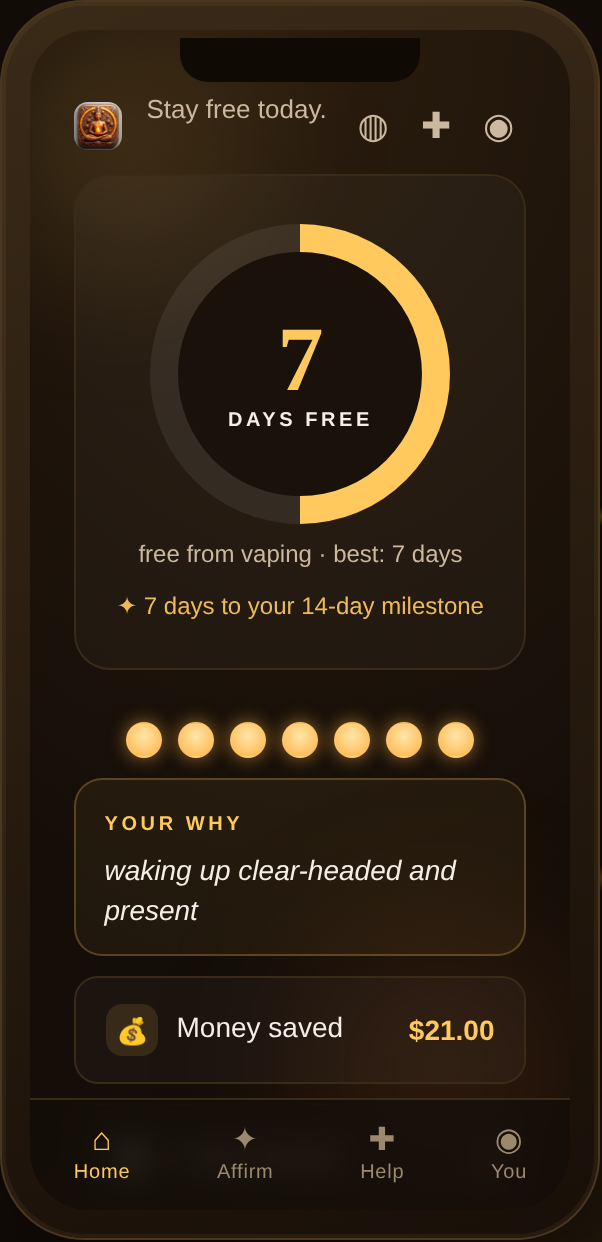
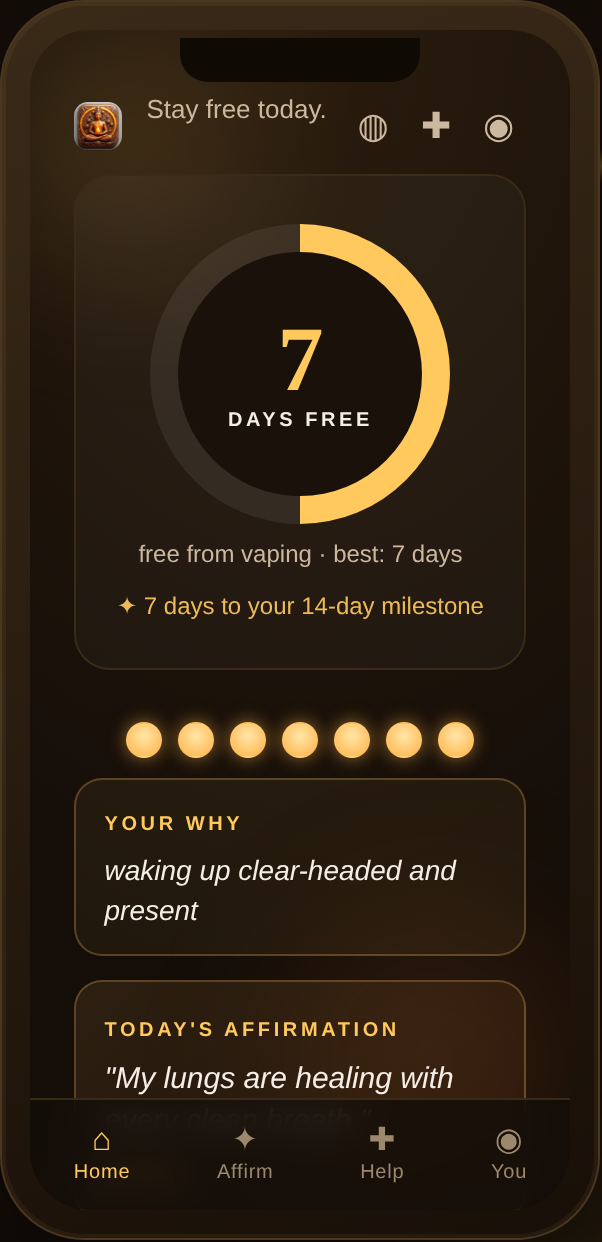
Round 8: favorites + affirmation-of-the-day + heart polish
- Favorites: heart-to-favorite in the player (with a pop animation) + a
  Favorites view reachable from the library; heart reflects per-line state.
- Affirmation of the day: a featured, tappable line on the dashboard.
- Scoped theme selectors to [data-theme] so the new Favorites card doesn't
  break the library count/flow.
QA: 30/30 checks pass.

diff --git a/microsite/assets/app.js b/microsite/assets/app.js
@@ -69,7 +69,7 @@
   const screen = document.getElementById("appScreen");
   if (!screen) return;
 
-  const state = { habit: "vaping", habitLabel: "vaping", cost: 7, days: 7, triggers: new Set(), premium: false, freedom: "" };
+  const state = { habit: "vaping", habitLabel: "vaping", cost: 7, days: 7, triggers: new Set(), premium: false, freedom: "", favorites: new Set(["I am free, one breath at a time.", "Every clean hour is rebuilding me."]) };
 
   const MILESTONES = [1, 3, 7, 14, 30, 60, 90, 180, 365];
 
@@ -178,6 +178,7 @@
       </div>
       <div class="streak">${dots}</div>
       <div class="why-card"><span class="why-label">YOUR WHY</span><p>${why}</p></div>
+      <div class="aotd-card" data-action="player"><span class="aotd-label">TODAY'S AFFIRMATION</span><p>"${affLines()[0]}"</p><span class="aotd-go">▶ Play</span></div>
       <div class="mini-card"><span><i class="chip">💰</i>Money saved</span><b data-money style="color:var(--gold)">$0.00</b></div>
       <div class="mini-card"><span><i class="chip">🛡</i>Urges beaten</span><b style="color:var(--amber)">4</b></div>
       <button class="pill" data-action="library">▶   Today's affirmation</button>
@@ -187,12 +188,23 @@
     library: () => `
       <div class="player-bar"><span style="flex:1;font-family:'Iowan Old Style',Georgia,serif;font-size:20px;color:var(--cream)">Affirmations</span><span class="ic" data-action="dashboard">✕</span></div>
       <p class="sub" style="margin-bottom:10px">Pick a set and let each line land over the soundscape.</p>
+      <div class="lib-card" data-action="favorites"><span class="lib-emoji">♥</span><span class="lib-title">Favorites</span><span style="color:var(--gold)">${state.favorites.size}</span></div>
       ${THEMES.map((t) => { const locked = t[3] && !state.premium; return `<div class="lib-card" data-theme="${t[0]}"><span class="lib-emoji">${t[2]}</span><span class="lib-title">${t[1]}</span><span style="color:var(--gold)">${locked ? "🔒" : "▶"}</span></div>`; }).join("")}`,
     player: () => `
-      <div class="player-bar"><span class="ic" data-mute>🔊</span><span class="ic" data-action="dashboard">✕</span></div>
+      <div class="player-bar"><span style="display:flex;gap:6px"><span class="ic" data-mute>🔊</span><span class="ic" data-fav>♡</span></span><span class="ic" data-action="dashboard">✕</span></div>
       <div class="aff-line" data-aff>${(activeLines || affLines())[0]}</div>
       <div class="aff-cap">Breathe slowly · let each line land</div>
       <div class="sound-row">${["Embers", "Rain", "Ocean", "Forest", "Silence"].map((s, i) => `<span class="sound-chip${i === 0 ? " on" : ""}" data-sound="${s}">${s}</span>`).join("")}</div>`,
+    favorites: () => {
+      const favs = [...state.favorites];
+      const body = favs.length
+        ? favs.map((l) => `<div class="fav-card"><span class="fav-heart">♥</span><span>${l}</span></div>`).join("")
+        : `<p class="sub">Tap the heart in any session to save the lines that land.</p>`;
+      return `
+      <div class="player-bar"><span style="flex:1;font-family:'Iowan Old Style',Georgia,serif;font-size:20px;color:var(--cream)">Favorites</span><span class="ic" data-action="library">✕</span></div>
+      <p class="sub" style="margin-bottom:10px">The affirmations that landed for you.</p>
+      ${body}`;
+    },
     milestone: () => `
       <div class="confetti-wrap" aria-hidden="true">${Array.from({ length: 14 }, (_, i) => `<span class="confetti c${i % 5}" style="left:${(i * 7 + 5) % 100}%;animation-delay:${(i % 7) * 0.18}s"></span>`).join("")}</div>
       <div style="margin:auto;text-align:center;position:relative;z-index:1">
@@ -344,11 +356,12 @@
     if (ambient) { try { ambient.a.stop(); ambient.b.stop(); } catch (e) {} ambient = null; }
   }
   function runPlayer(el) {
-    const lines = activeLines || affLines(), target = el.querySelector("[data-aff]"); let i = 0;
-    startAmbient(); speak(lines[0]);
+    const lines = activeLines || affLines(), target = el.querySelector("[data-aff]"), fav = el.querySelector("[data-fav]"); let i = 0;
+    const setHeart = () => { if (fav) fav.textContent = state.favorites.has(lines[i]) ? "♥" : "♡"; };
+    startAmbient(); speak(lines[0]); setHeart();
     cycleTimer = setInterval(() => {
       target.style.opacity = 0;
-      setTimeout(() => { i = (i + 1) % lines.length; target.textContent = lines[i]; target.style.opacity = 1; speak(lines[i]); }, 500);
+      setTimeout(() => { i = (i + 1) % lines.length; target.textContent = lines[i]; target.style.opacity = 1; speak(lines[i]); setHeart(); }, 500);
     }, 5500);
   }
   function runBreathe(el) {
@@ -432,6 +445,17 @@
     }
     const tog = e.target.closest("[data-toggle]");
     if (tog) { tog.classList.toggle("on"); tog.textContent = tog.classList.contains("on") ? "●" : "○"; return; }
+
+    const fav = e.target.closest("[data-fav]");
+    if (fav) {
+      const aff = screen.querySelector("[data-aff]");
+      const line = aff && aff.textContent;
+      if (line) {
+        if (state.favorites.has(line)) { state.favorites.delete(line); fav.textContent = "♡"; }
+        else { state.favorites.add(line); fav.textContent = "♥"; fav.classList.remove("pop"); void fav.offsetWidth; fav.classList.add("pop"); }
+      }
+      return;
+    }
 
     const act = e.target.closest("[data-action]");
     if (!act) return;

diff --git a/microsite/assets/styles.css b/microsite/assets/styles.css
@@ -283,6 +283,16 @@ section{padding:clamp(70px,10vw,130px) clamp(18px,6vw,40px);max-width:var(--maxw
 .time-chips{display:flex;gap:8px;justify-content:center;flex-wrap:wrap;margin-top:10px}
 .time-chip{font-size:12px;color:var(--muted);border:1px solid var(--line);border-radius:20px;padding:6px 12px;cursor:pointer;transition:.2s}
 .time-chip.on{color:#1a120b;background:var(--gold);border-color:transparent;font-weight:700}
+.aotd-card{background:linear-gradient(135deg,rgba(255,201,94,.1),rgba(232,116,43,.06));border:1px solid rgba(255,201,94,.25);border-radius:14px;padding:14px;margin-top:12px;cursor:pointer;transition:transform .12s ease}
+.aotd-card:active{transform:scale(.99)}
+.aotd-label{color:var(--gold);font-size:10px;letter-spacing:.18em;font-weight:700}
+.aotd-card p{color:var(--cream);font-size:15px;font-style:italic;margin:6px 0 6px;line-height:1.4}
+.aotd-go{color:var(--gold);font-size:12px;font-weight:700}
+.fav-card{display:flex;align-items:flex-start;gap:10px;border:1px solid var(--line);border-radius:12px;padding:13px 14px;margin-top:9px;color:var(--cream);font-size:14px;line-height:1.4}
+.fav-heart{color:var(--ember);font-size:15px}
+[data-fav]{cursor:pointer}
+[data-fav].pop{animation:heartPop .4s ease}
+@keyframes heartPop{0%{transform:scale(1)}40%{transform:scale(1.5)}100%{transform:scale(1)}}
 
 /* ---- responsive ---- */
 @media (max-width:820px){
